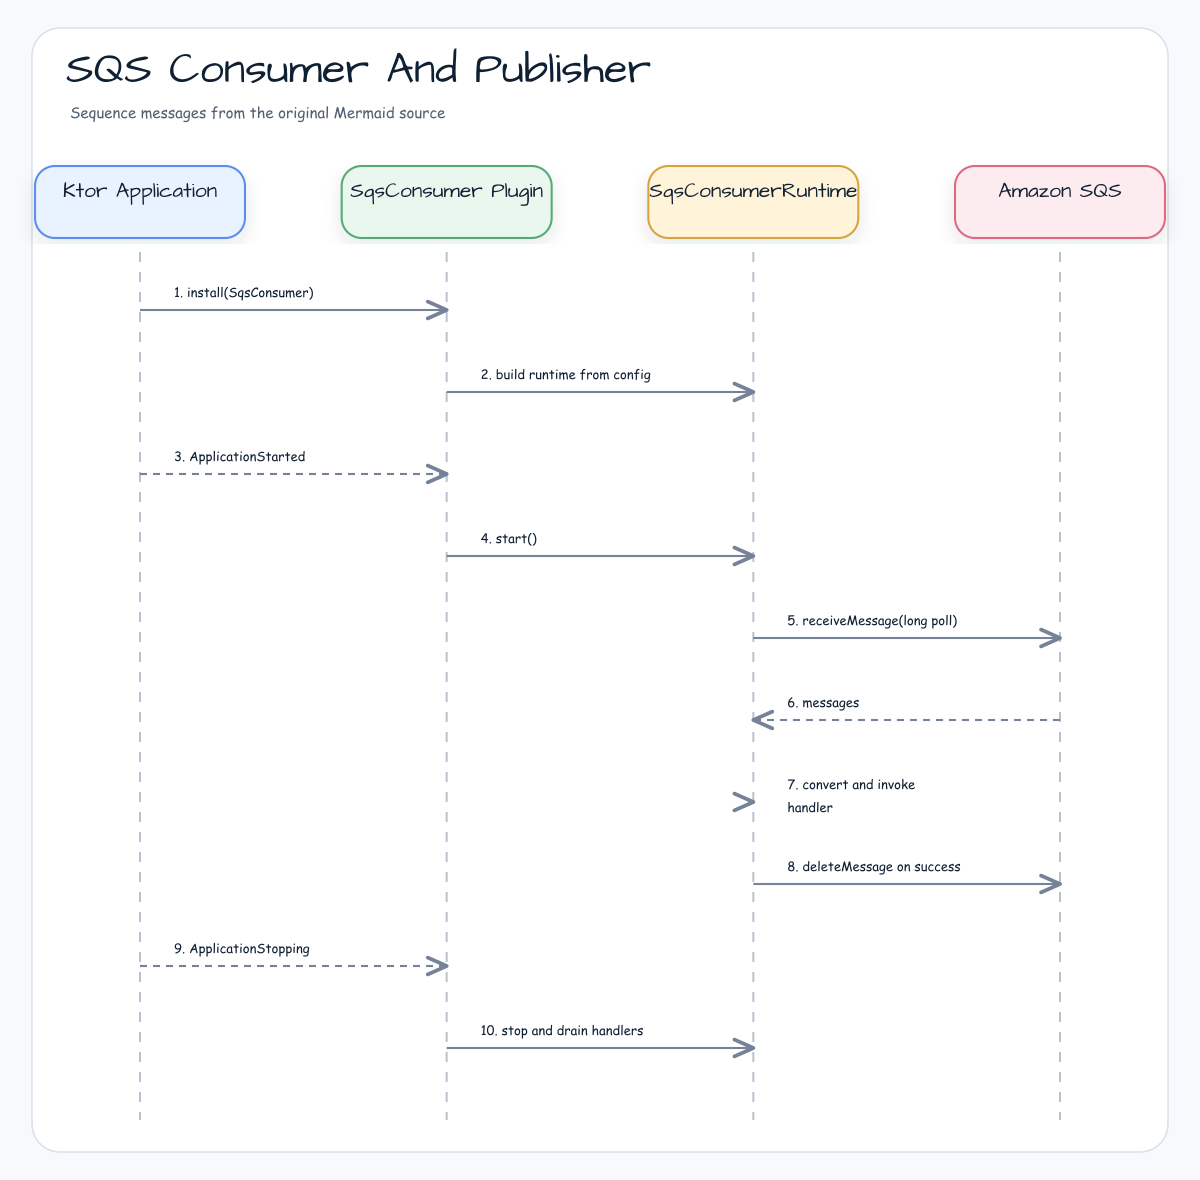
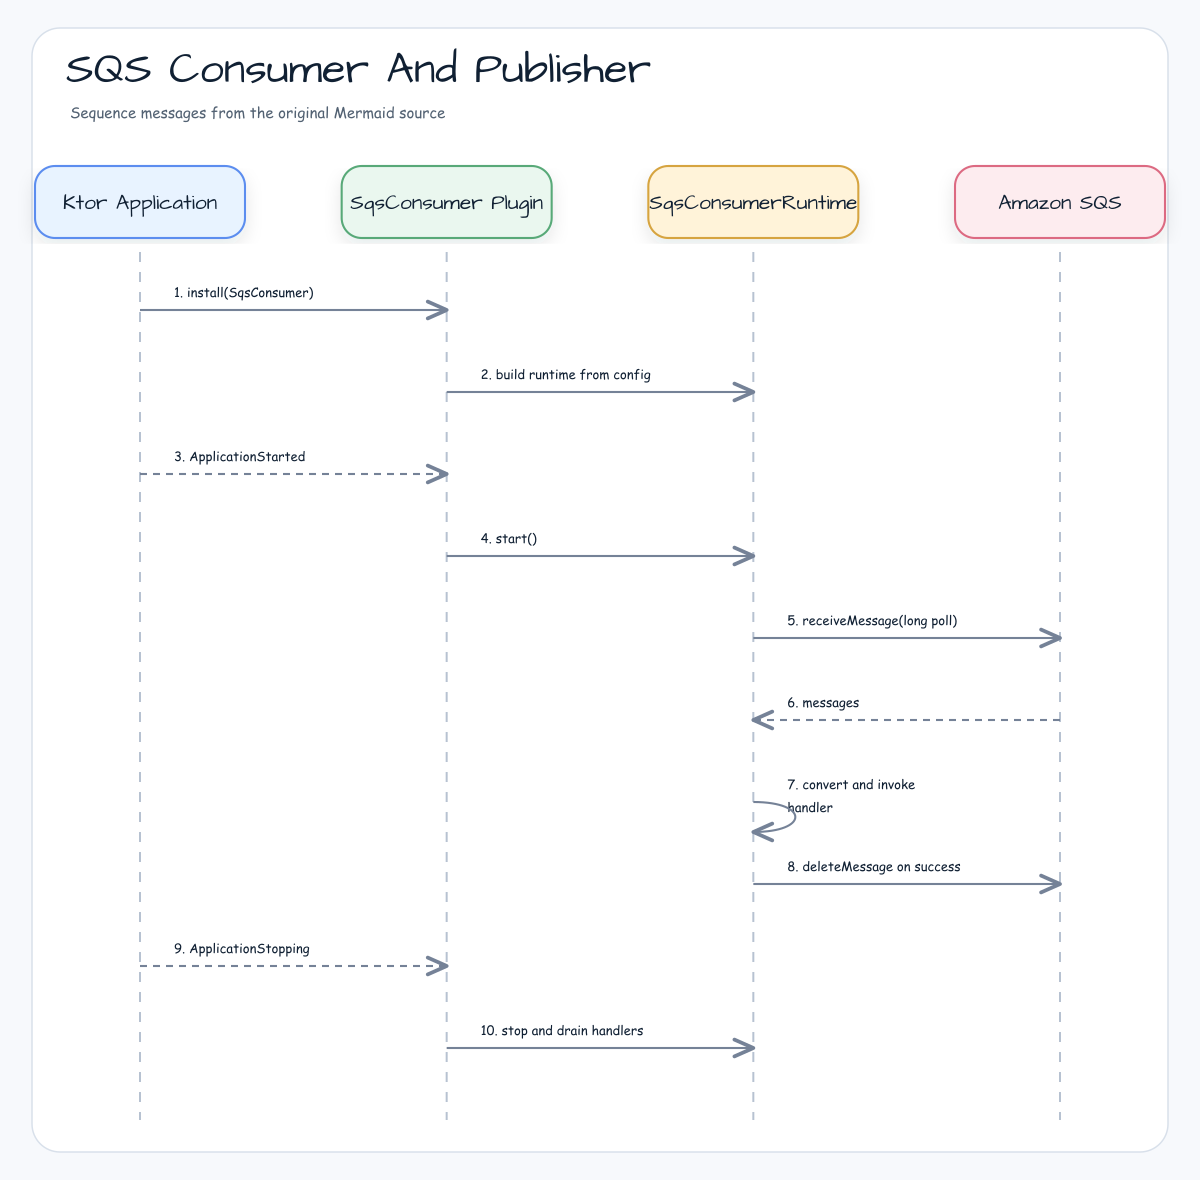
docs: fix README diagram geometry
Fix generated README diagram geometry so architecture connectors have visible stems and sequence participant headers are vertically centered.

Constraint: Preserve the existing PNG embeds and SVG sources while changing only generated diagram geometry.

Rejected: leaving marker-only arrows | syntactically valid SVG paths still rendered as unreadable bare arrow heads.

Confidence: high

Scope-risk: narrow

Directive: Check architecture connector length, sequence header baseline, and sequence self-call arrows before publishing future README diagram assets.

Tested: README image link check missing=0 localSvgImageLinks=0 mermaidResidue=0; shapeCandidates=0; shortArch=0; seqTop=0; zeroSeq=0; visual samples reviewed; git diff --check.

Not-tested: Gradle build not run because this is docs/image-only.

diff --git a/docs/lessons/2026-05-20-readme-diagram-layout-fixes.md b/docs/lessons/2026-05-20-readme-diagram-layout-fixes.md
@@ -1,0 +1,28 @@
+# README Diagram Layout Fixes
+
+## Context
+
+Follow-up visual QA found two layout defects in generated README diagrams:
+
+- some architecture connectors were rendered as very short line segments where only the arrow head was visible
+- sequence participant header labels were vertically biased toward the top of the header box
+
+A related sequence issue was also fixed: self-calls previously rendered as zero-length arrows, which looked like a standalone arrow head.
+
+## Decision
+
+Keep the existing diagram style and update only geometry in the generated SVG/PNG assets. Architecture connector line segments must span the visible gap between adjacent cards. Sequence participant labels must use the same vertical-centering baseline as architecture cards. Sequence self-calls should render as a small loop instead of a zero-length line.
+
+## Verification
+
+- README image link check: missing=0, localSvgImageLinks=0, mermaidResidue=0
+- PNG/SVG shape check: shapeCandidates=0
+- architecture short connector check: shortArch=0
+- sequence header alignment check: seqTop=0
+- sequence zero-length arrow check: zeroSeq=0
+- `git diff --check`
+- visual samples reviewed for exposed root architecture and representative sequence diagrams
+
+## Future Guidance
+
+Treat arrow head-only connectors as a failed rendering even when the SVG is syntactically valid. Geometry checks should cover architecture connector length, sequence header baseline, and sequence self-call arrows before PR creation.
